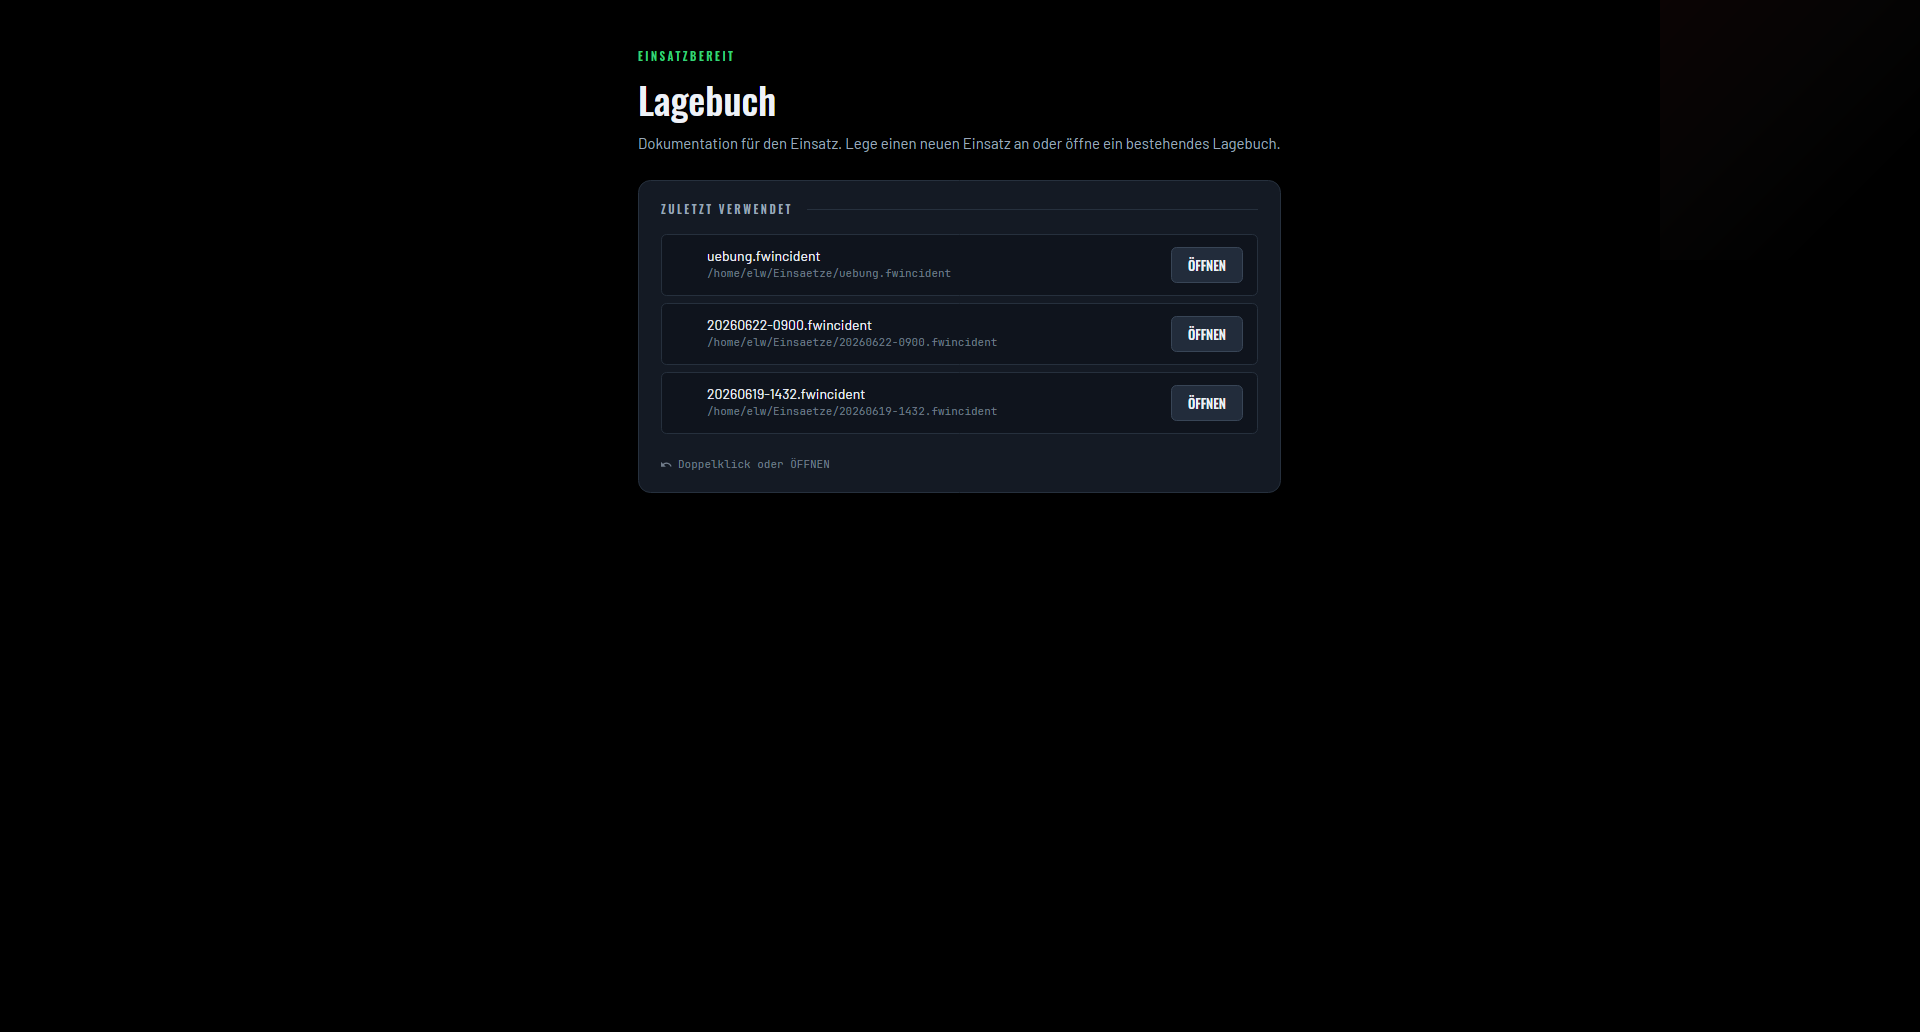
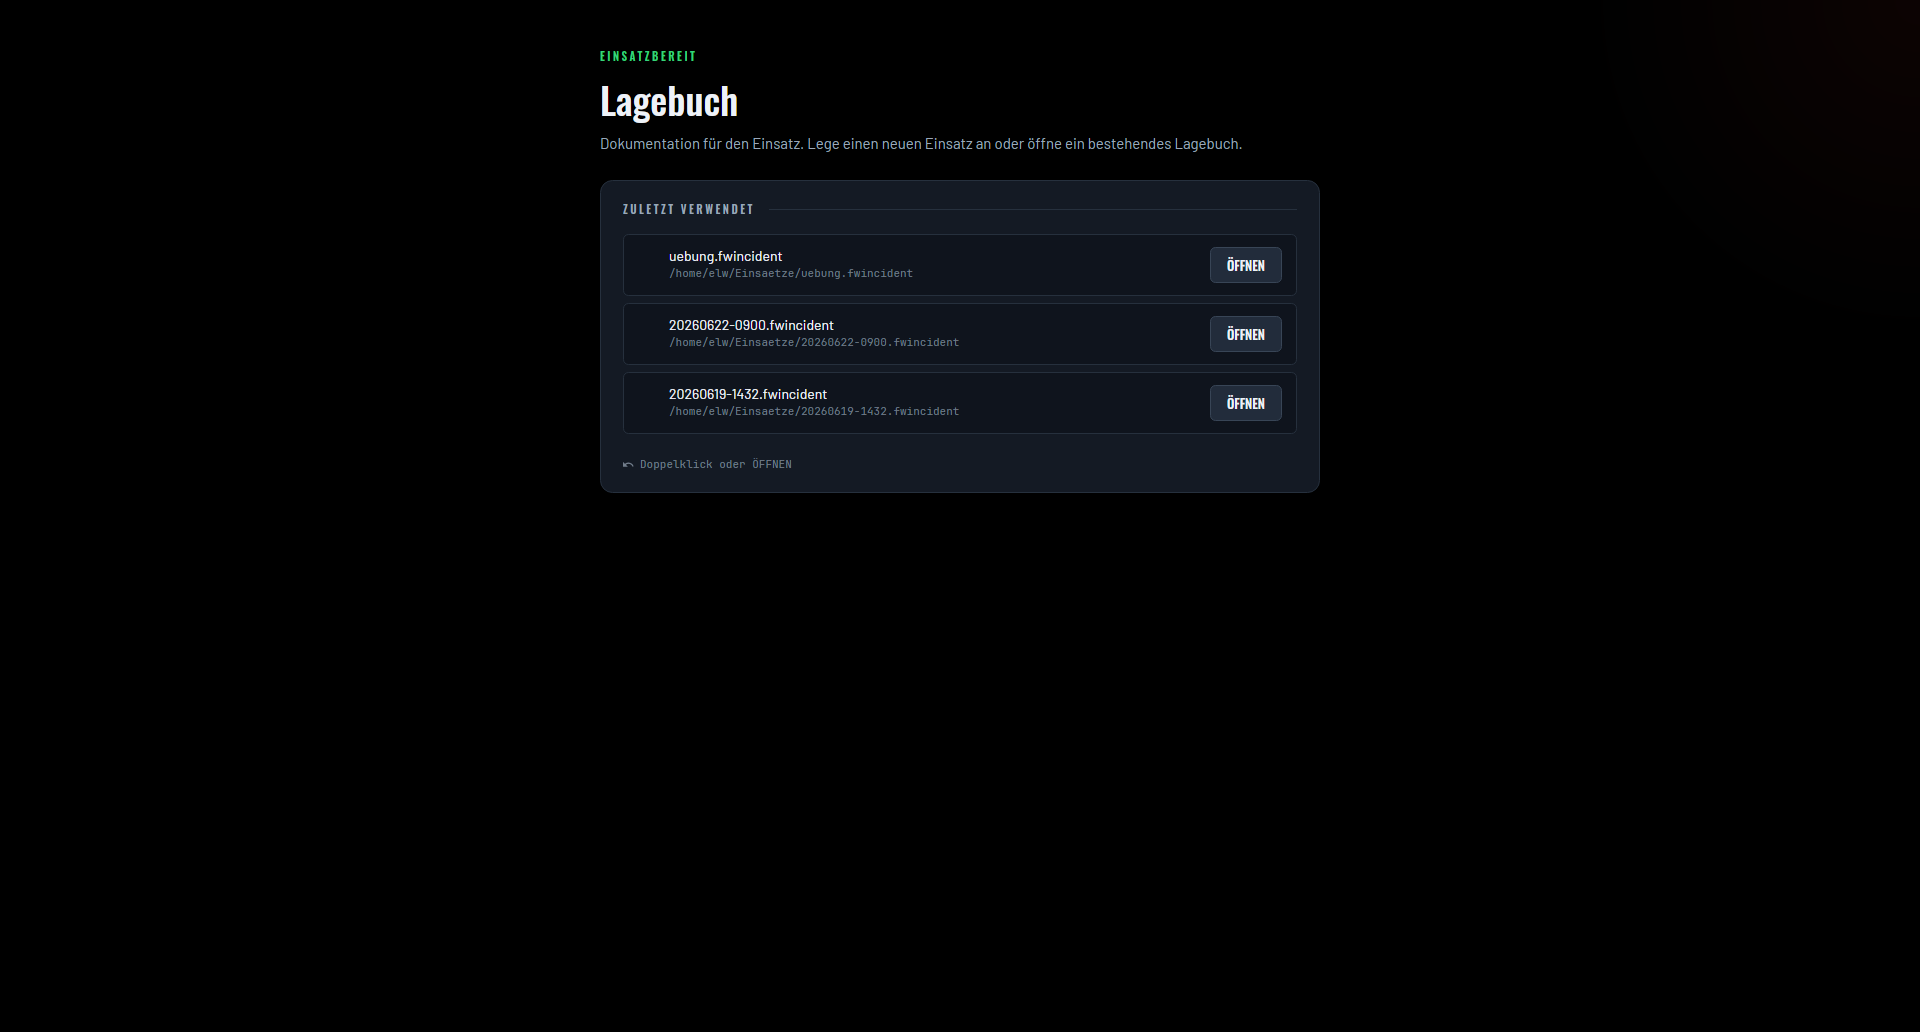
fix(home): stop the Übersicht reflowing mid-scroll and redraw the corner glow (#395)
* fix(home): stop the Übersicht reflowing mid-scroll and redraw the corner glow

The content column carried HorizontalAlignment="Center" with MaxWidth="720",
which sizes it to its widest child. That child is the virtualized recent-files
ListBox, whose desired width is whatever rows happen to be realized -- a long
path pinned the column to 720px, and scrolling it out of view dropped the column
to ~643px, so the whole page jumped sideways on every scroll. Stretch pins the
column to min(viewport, 720) instead, which no child can move.

The list also carried MaxHeight="420", giving it a scrollbar nested inside the
page's, so the wheel moved several rows before the page moved at all. It now
sizes to its (at most ten) entries and the page is the only thing that scrolls.

Separately, the corner decoration rendered as a 320x320 grey rectangle with hard
left and bottom edges: it faded to `Transparent`, which is transparent WHITE and
interpolates through grey, its last stop sat at offset 0.7 so the box was cut
mid-gradient, and StartPoint="0%,0%" put the bright end at the box's top-left,
pointing into the page rather than at the corner it decorates. A radial fade
anchored on that corner, ending on a zero-alpha stop of the same hue, has none
of the three problems, and the negative margins that used to shove the hard
edges off-screen are no longer needed. Both stops now come from the theme:
#376 had just moved the bright one onto SignalColor, and the faded one is a new
[…]

Changed region(s): [[0.3125, 0.031, 0.6562, 0.4961], [0.5938, 0.155, 0.6875, 0.4961]]

diff --git a/tests/LageBuch.Acceptance.Tests/HomeLayoutTests.cs b/tests/LageBuch.Acceptance.Tests/HomeLayoutTests.cs
@@ -1,0 +1,257 @@
+using System.Runtime.InteropServices;
+using Avalonia;
+using Avalonia.Controls;
+using Avalonia.Headless;
+using Avalonia.Headless.XUnit;
+using Avalonia.Media.Imaging;
+using Avalonia.Platform;
+using Avalonia.Threading;
+using Avalonia.VisualTree;
+using LageBuch.App.Shared.Views;
+using LageBuch.AppLogic.Services;
+using LageBuch.AppLogic.ViewModels;
+using LageBuch.Persistence.MasterData;
+
+namespace LageBuch.Acceptance.Tests;
+
+// The Übersicht used to re-lay-out horizontally while it was scrolled: the content column was
+// sized to its widest child, and that child is a virtualized ListBox whose desired width changes
+// as rows are realized and recycled. A recent entry with a long path made the column 720px wide;
+// scrolling it out of view dropped the column to ~643px and the whole page jumped sideways.
+//
+// The second group pins the corner decoration, which rendered as a 320x320 grey rectangle with
+// hard left and bottom edges instead of a glow fading into the corner.
+public class HomeLayoutTests
+{
+    private const double ColumnMaxWidth = 720.0;
+
+    // The MaxHeight the recent list used to carry, which gave it a scrollbar of its own.
+    private const double OldMaxHeight = 420.0;
+
+    // Long enough that the row's path TextBlock wants more than the column's MaxWidth. Measure,
+    // not arrange, is what matters here: TextTrimming ellipsizes on arrange but the TextBlock
+    // still reports the full untrimmed width when it is measured.
+    private const string LongPath =
+        "/home/operator/Development/arbeit/traeger/feuerwehr/lagebuch/docs/samples/uebung-mit-langem-namen.fwincident";
+
+    private static readonly string[] ShortPaths =
+    {
+        "/home/operator/Einsaetze/20260906-1344.fwincident",
+        "/home/operator/Einsaetze/20260906-1224.fwincident",
+        "/home/operator/Einsaetze/20260831-1519.fwincident",
+    };
+
+    private sealed class Md : IMasterDataProvider
+    {
+        public MasterDataSet Get() => MasterDataSet.Empty with { Roles = new[] { "EL" } };
+
+        public void Save(MasterDataSet set)
+        {
+        }
+    }
+
+    private sealed class Recent : IRecentFilesStore
+    {
+        private readonly IReadOnlyList<string> _list;
+
+        public Recent(params string[] paths) => _list = paths;
+
+        public IReadOnlyList<string> GetRecent() => _list;
+
+        public void Add(string path)
+        {
+        }
+    }
+
+    private static Window ShowHome(params string[] recentPaths) => ShowHome(1100, recentPaths);
+
+    private static Window ShowHome(double width, params string[] recentPaths)
+    {
+        var vm = new HomeViewModel(
+            new FakeStore(),
+            new Md(),
+            new Recent(recentPaths),
+            new FakeDialogs(),
+            new FixedClock(),
+            new ManualTicker(),
+            new NoopAlarmService(),
+            new NoopIncidentHostController(),
+            "1.0.0");
+
+        var window = new Window { Content = new HomeView { DataContext = vm }, Width = width, Height = 820 };
+        window.Show();
+        Dispatcher.UIThread.RunJobs();
+        return window;
+    }
+
+    // By name, like OpenErrorBanner and RecentFilesHint: matching on MaxWidth/Width would compare
+    // doubles for exact equality, which CodeQL rightly rejects (cs/equality-on-floats).
+    private static T ByName<T>(Window window, string name)
+        where T : Control =>
+        window.GetVisualDescendants().OfType<T>().Single(c => c.Name == name);
+
+    private static StackPanel ContentColumn(Window window) => ByName<StackPanel>(window, "ContentColumn");
+
+    private static Border Glow(Window window) => ByName<Border>(window, "HazardGlow");
+
+    private static ScrollViewer PageScroller(Window window) =>
+        window.GetVisualDescendants().OfType<ScrollViewer>().First();
+
+    [AvaloniaFact]
+    public void Content_column_width_does_not_depend_on_which_recent_rows_are_realized()
+    {
+        var withLongPath = ContentColumn(ShowHome(new[] { LongPath }.Concat(ShortPaths).ToArray())).Bounds.Width;
+        var withoutLongPath = ContentColumn(ShowHome(ShortPaths)).Bounds.Width;
+
+        // The failure this guards is the page jumping between the two widths mid-scroll, so the
+        // two must agree -- and agree on the full column width, not on whatever the text happens
+        // to measure.
+        Assert.Equal(withLongPath, withoutLongPath, precision: 0);
+        Assert.Equal(ColumnMaxWidth, withoutLongPath, precision: 0);
+    }
+
+    // The column is capped at 720px and the window is wider, so it has to be centred in the
+    // leftover space. This is the guard on using HorizontalAlignment="Stretch" to get a
+    // content-independent width: Avalonia centres a Stretch element that MaxWidth has made
+    // narrower than its slot, and if that ever stopped being true the page would slide left.
+    [AvaloniaFact]
+    public void Content_column_stays_centred()
+    {
+        var window = ShowHome(ShortPaths);
+        var column = ContentColumn(window);
+        var page = PageScroller(window);
+
+        // Measured against the viewport rather than the window: a page scrollbar narrows the slot
+        // the column is centred in, and that is still centred.
+        var centre = column.TranslatePoint(new Point(column.Bounds.Width / 2, 0), page)!.Value.X;
+
+        Assert.True(
+            Math.Abs(centre - (page.Viewport.Width / 2)) <= 1.0,
+            $"the column's centre is at x={centre} in a {page.Viewport.Width}px viewport");
+    }
+
+    // One scrollbar, on the page. A scrollable ListBox nested in the page's ScrollViewer ate the
+    // wheel until it bottomed out, so the list moved several rows before the page moved at all.
+    [AvaloniaFact]
+    public void Recent_list_does_not_scroll_on_its_own()
+    {
+        var paths = Enumerable.Range(0, 10)
+            .Select(i => $"/home/operator/Einsaetze/2026090{i}-1200.fwincident")
+            .ToArray();
+        var window = ShowHome(paths);
+
+        var list = window.GetVisualDescendants().OfType<ListBox>().Single();
+        var inner = list.GetVisualDescendants().OfType<ScrollViewer>().Single();
+        var page = PageScroller(window);
+
+        Assert.Equal(10, list.ItemCount);
+
+        // The list lays out all ten rows rather than clipping them into a window of its own, so its
+        // own scroller has nothing left to scroll.
+        Assert.True(
+            list.Bounds.Height > OldMaxHeight,
+            $"the recent list is only {list.Bounds.Height}px tall for ten rows -- it is still capped");
+        Assert.True(
+            inner.Extent.Height <= inner.Viewport.Height,
+            $"the list still scrolls on its own (extent {inner.Extent.Height}, viewport {inner.Viewport.Height})");
+
+        // ...and the wheel, delivered over the middle of the list, moves the page.
+        var overflow = $"the page does not overflow (extent {page.Extent.Height}, viewport "
+            + $"{page.Viewport.Height}) -- there would be nothing for the wheel to do";
+        Assert.True(page.Extent.Height > page.Viewport.Height, overflow);
+
+        Assert.Equal(0, page.Offset.Y, precision: 0);
+        window.MouseWheel(new Point(window.Width / 2, 400), new Vector(0, -3));
+        Dispatcher.UIThread.RunJobs();
+
+        Assert.True(
+            page.Offset.Y > 0,
+            "wheeling over the recent list left the page where it was -- the list ate the event");
+    }
+
+    // The decoration is a glow, so it has to reach the background before it reaches its own
+    // bounds. It did not: a LinearGradientBrush fading to `Transparent` (which is transparent
+    // WHITE, and interpolates through grey) with its last stop at offset 0.7 cut the box
+    // mid-fade, leaving a one-pixel step from (0,0,0) to (4,3,3) down its left edge.
+    [AvaloniaFact]
+    public void Corner_glow_fades_out_before_its_own_edges()
+    {
+        // 1400px wide: the centred 720px column then ends at x=1060 and the decoration starts at
+        // x=1080, so nothing but the decoration can put a step on the pixels this scans.
+        var window = ShowHome(1400, ShortPaths);
+        var bounds = Glow(window).Bounds;
+
+        using var frame = window.CaptureRenderedFrame()!;
+        using var pixels = new FramePixels(frame);
+
+        var left = (int)Math.Round(bounds.Left);
+        var bottom = (int)Math.Round(bounds.Bottom);
+        var top = Math.Max(0, (int)Math.Round(bounds.Top));
+        var right = Math.Min(pixels.Width - 1, (int)Math.Round(bounds.Right));
+
+        var seams = new List<string>();
+        for (var y = top; y < Math.Min(bottom, pixels.Height); y++)
+        {
+            if (pixels.Raw(left, y) != pixels.Raw(left - 1, y))
+            {
+                seams.Add($"left edge at y={y}");
+            }
+        }
+
+        for (var x = left; x < right; x++)
+        {
+            if (pixels.Raw(x, bottom - 1) != pixels.Raw(x, bottom + 1))
+            {
+                seams.Add($"bottom edge at x={x}");
+            }
+        }
+
+        Assert.True(
+            seams.Count == 0,
+            $"the decoration has a visible rectangular edge at {seams.Count} pixels, first: {seams.FirstOrDefault()}");
+    }
+
+    // ...and it has to glow at the corner it decorates. StartPoint="0%,0%" put the bright end at
+    // the box's top-LEFT while the box is anchored top-right, so the glow floated in the middle of
+    // the page and the corner itself was the dimmest part of it.
+    [AvaloniaFact]
+    public void Corner_glow_is_brightest_at_the_corner()
+    {
+        var window = ShowHome(1400, ShortPaths);
+
+        using var frame = window.CaptureRenderedFrame()!;
+        using var pixels = new FramePixels(frame);
+
+        // Both samples sit inside the decoration under either layout; 40px in from the right keeps
+        // clear of the page scrollbar.
+        var atCorner = pixels.Brightness(pixels.Width - 40, 40);
+        var awayFromCorner = pixels.Brightness(pixels.Width - 240, 40);
+
+        var wrongWay = $"the glow is dimmer at the corner ({atCorner}) than 200px inside the page "
+            + $"({awayFromCorner}) -- it is pointing the wrong way";
+        Assert.True(atCorner > awayFromCorner, wrongWay);
+    }
+}
+
+// Reads a captured frame pixel by pixel. Every assertion here either compares whole pixels or
+// sums the three colour channels, so the BGRA/RGBA question never arises.
+internal sealed class FramePixels : IDisposable
+{
+    private readonly ILockedFramebuffer _fb;
+
+    public FramePixels(WriteableBitmap bitmap) => _fb = bitmap.Lock();
+
+    public int Width => _fb.Size.Width;
+
+    public int Height => _fb.Size.Height;
+
+    public int Raw(int x, int y) => Marshal.ReadInt32(_fb.Address, (y * _fb.RowBytes) + (x * 4));
+
+    public int Brightness(int x, int y)
+    {
+        var raw = Raw(x, y);
+        return (raw & 0xFF) + ((raw >> 8) & 0xFF) + ((raw >> 16) & 0xFF);
+    }
+
+    public void Dispose() => _fb.Dispose();
+}

diff --git a/CHANGELOG.md b/CHANGELOG.md
@@ -79,6 +79,22 @@ once we reach 1.0.
   Such a character is now simply left blank and the export completes. The text LageBuch itself
   writes is held to the stricter rule in the test suite, where a character the bundled font
   lacks still fails the build.
+- Übersicht: the page no longer jumps sideways while it is scrolled. The content column was
+  sized to its widest child, and that child is the virtualized "Zuletzt verwendet" list, whose
+  measured width changes as rows are realized and recycled — so a recent entry with a long path
+  made the column 720px wide and scrolling it out of view snapped the whole page down to ~643px
+  and back. The column is now pinned to the viewport width (capped at 720) regardless of what
+  the list happens to be showing.
+- Übersicht: the "Zuletzt verwendet" list no longer has a scrollbar of its own. Nested inside
+  the page's scroller it swallowed the wheel until it hit its own bottom, so the list moved
+  several rows before the page moved at all. The list now sizes to its (at most ten) entries
+  and the page is the only thing that scrolls.
+- Übersicht: the decorative glow in the top-right corner no longer renders as a grey rectangle
+  with hard edges. It faded to `Transparent` — which is transparent *white*, so the gradient
+  drifted through grey — and stopped fading at 70%, cutting the 320×320 box mid-gradient; its
+  bright end also pointed into the middle of the page instead of at the corner. It is now a
+  radial fade anchored on the corner, ending on a fully transparent stop of the same signal
+  colour (a new `SignalFadedColor` token, so the two stops cannot drift apart). (#376)
 - Handing the workspace view from one incident to another no longer lets the first incident's
   "weiter bearbeiten" prompt act on the second. The view kept its handlers on the abandoned
   prompt, and those handlers followed the view rather than the incident they belonged to, so

diff --git a/AGENTS.md b/AGENTS.md
@@ -96,6 +96,15 @@ Write code that trips neither:
 - **Leave no dead locals.** `IDE0059` is a warning here and warnings are
   errors. Use `_` for a value you do not need, including inside a tuple
   deconstruction or an `out var` call.
+- **Never compare `double` or `float` with `==` or `!=`** (`cs/equality-on-floats`).
+  This bites hardest in UI tests, where it is tempting to find a control by a
+  layout value — `OfType<StackPanel>().First(p => p.MaxWidth == 720)`. Find
+  controls by `x:Name` instead, adding the name to the `.axaml` if it has none;
+  that is what `OpenErrorBanner` and `RecentFilesHint` are for. Where a number
+  really is the subject, assert on it with a tolerance — xUnit's
+  `Assert.Equal(expected, actual, precision: 0)`, or `Math.Abs(a - b) <= 1.0` —
+  and never with `Assert.Equal(0, someDouble)`, which is an exact comparison
+  wearing a method call.
 
 When a new CodeQL alert appears, never leave it open and never dismiss it
 without a written reason:
